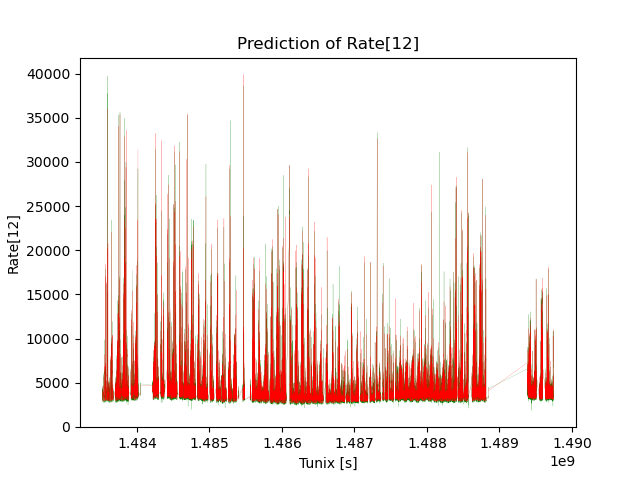
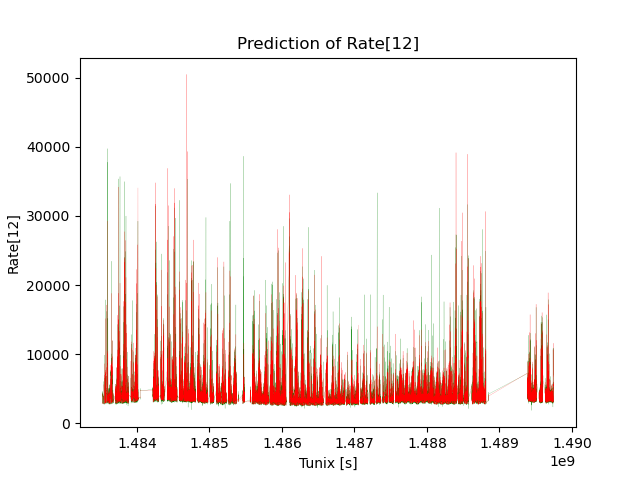
went back to using data_df for the time (or can use the difference with init time instead if still want to use torch tensors..) due to precision issues. Float32 not enough for unix_time.. To continue fixing visualizer.py and results.ipynb before creating clusters. To try old trainer.yaml files with 

diff --git a/src/visualizer.py b/src/visualizer.py
@@ -17,19 +17,19 @@ def get_time_y(dataset_val,
                target_name="rate[0]",
                return_argsort=False):
     dataset = dataset_val.dataset
+    df = dataset.data_df
     # Column indices
     idx = dataset.column_names2id
 
-    idx_unix_time = idx["unix_time"]
     idx_target_name = idx[target_name]
-
     # Subset of dataset but could be in wrong order 
     val = dataset.data_cpu[dataset_val.indices]
-    time_val = val[:, idx_unix_time]
+    time_val = df.loc[df.index[dataset_val.indices], "unix_time"].values
     y_val = val[:, idx_target_name]
     
     # Sort by ascending time
     argsort = np.argsort(time_val)
+    
     if not(return_argsort):
         return time_val[argsort], y_val[argsort]
     return argsort, time_val[argsort], y_val[argsort]
@@ -49,36 +49,33 @@ def get_time_y_y_hat(dataset_val,
 
 def get_all_time_y_y_hat(dataset_val, pred):
     dataset = dataset_val.dataset
+    df = dataset.data_df
     # Column indices
     idx = dataset.column_names2id
 
-    idx_unix_time = idx["unix_time"]
     idx_target_names = [idx[t] for t in dataset.target_names]
 
     # Subset of dataset but could be in wrong order 
     val = dataset.data_cpu[dataset_val.indices]
-    time_val = val[:, idx_unix_time]
+    time_val = df.loc[df.index[dataset_val.indices], "unix_time"].values
     y_val = val[:, idx_target_names]
     pred = pred.detach().cpu()
     
     # Sort by ascending time
     argsort = np.argsort(time_val)
-    print(time_val[:200])
-    print("AAAAA")
-    print(time_val[argsort][:200])
     return time_val[argsort], y_val[argsort], pred[argsort]
 
 def get_columns(dataset_subset, column_names):
     dataset = dataset_subset.dataset
+    df = dataset.data_df
     # Column indices
     idx = dataset.column_names2id
 
-    idx_unix_time = idx["unix_time"]
     idx_column_names = [idx[c] for c in column_names]
 
     # Subset of dataset but could be in wrong order
     subset = dataset.data_cpu[dataset_subset.indices]
-    time = subset[:, idx_unix_time]
+    time = df.loc[df.index[dataset_subset.indices], "unix_time"].values
     columns = subset[:, idx_column_names]
 
     # Sort by ascending time
@@ -352,7 +349,7 @@ def plot_train_val_prediction_target_zoom(trainer,
         # low_n and high_n: related to validation set, not train + val
         time_val = sorted_time_val[low_n:high_n]
         min_time, max_time = time_val.min(), time_val.max()
-        mask_time = ((sorted_time >= min_time) & (sorted_time <= max_time))
+        mask_time = np.array(((sorted_time >= min_time) & (sorted_time <= max_time)))
         
         # Train
         axs[i//2, i%2].plot(sorted_time[mask_time & mask_train],
@@ -378,17 +375,17 @@ def main(cfg: DictConfig):
     cfg.wandb.mode = "disabled"
     
     
-    # cfg.dataset.save_format = "pkl"
+    cfg.dataset.save_format = "pkl"
     # Comment prev. line and uncomment this below
     # once we're sure that we don't change anymore the dataset:
     
     ## Save dataset or load it
-    p = Path(cfg.dataset.filename)
-    filename =  f"{str(p.parent)}/{p.stem}_dataset.pkl"
-    if Path(filename).is_file():  # if exists and is a file
-        cfg.dataset.filename = filename
-    else:
-        cfg.dataset.save_format = "pkl"  # to save dataset
+    # p = Path(cfg.dataset.filename)
+    # filename =  f"{str(p.parent)}/{p.stem}_dataset.pkl"
+    # if Path(filename).is_file():  # if exists and is a file
+    #     cfg.dataset.filename = filename
+    # else:
+    #     cfg.dataset.save_format = "pkl"  # to save dataset
     
     trainer = Trainer(cfg)
     

diff --git a/src/dataset.py b/src/dataset.py
@@ -24,20 +24,20 @@ class PolarDataset(Dataset):
         match Path(filename).suffix:
             case ".root":
                 # Save dataset file if cfg.dataset.save_format is not None
-                data_df = create_dataset(filename, 
+                self.data_df = create_dataset(filename,
                                               new_columns=new_columns,
                                               filter_conditions=filter_conditions,
                                               save_format=save_format)
             case ".pkl":
-                data_df = pd.read_pickle(filename)
+                self.data_df = pd.read_pickle(filename)
             case ".csv":
-                data_df = pd.read_csv(filename)
+                self.data_df = pd.read_csv(filename)
             case _:
                 raise NotImplementedError(f"Extension {Path(filename).suffix} of {filename} not supported."+\
                                           "Only supporting csv, pkl or root")
-        data_np = data_df.values.astype(float)
-        X_np = data_df[feature_names].values.astype(float)
-        y_np = data_df[target_names].values.astype(float)
+        data_np = self.data_df.values.astype(float)
+        X_np = self.data_df[feature_names].values.astype(float)
+        y_np = self.data_df[target_names].values.astype(float)
         
         # Tensors
         self.data_cpu = torch.tensor(data_np,
@@ -56,9 +56,9 @@ class PolarDataset(Dataset):
         self.n_targets: int = len(target_names)
 
         # Column names of data_cpu
-        self.column_names = list(data_df.columns)
+        self.column_names = list(self.data_df.columns)
         self.id2column_names = self.column_names
-        self.column_names2id = {c: i for i, c in enumerate(data_df.columns)}
+        self.column_names2id = {c: i for i, c in enumerate(self.data_df.columns)}
         
         # Features
         self.feature_names = feature_names
